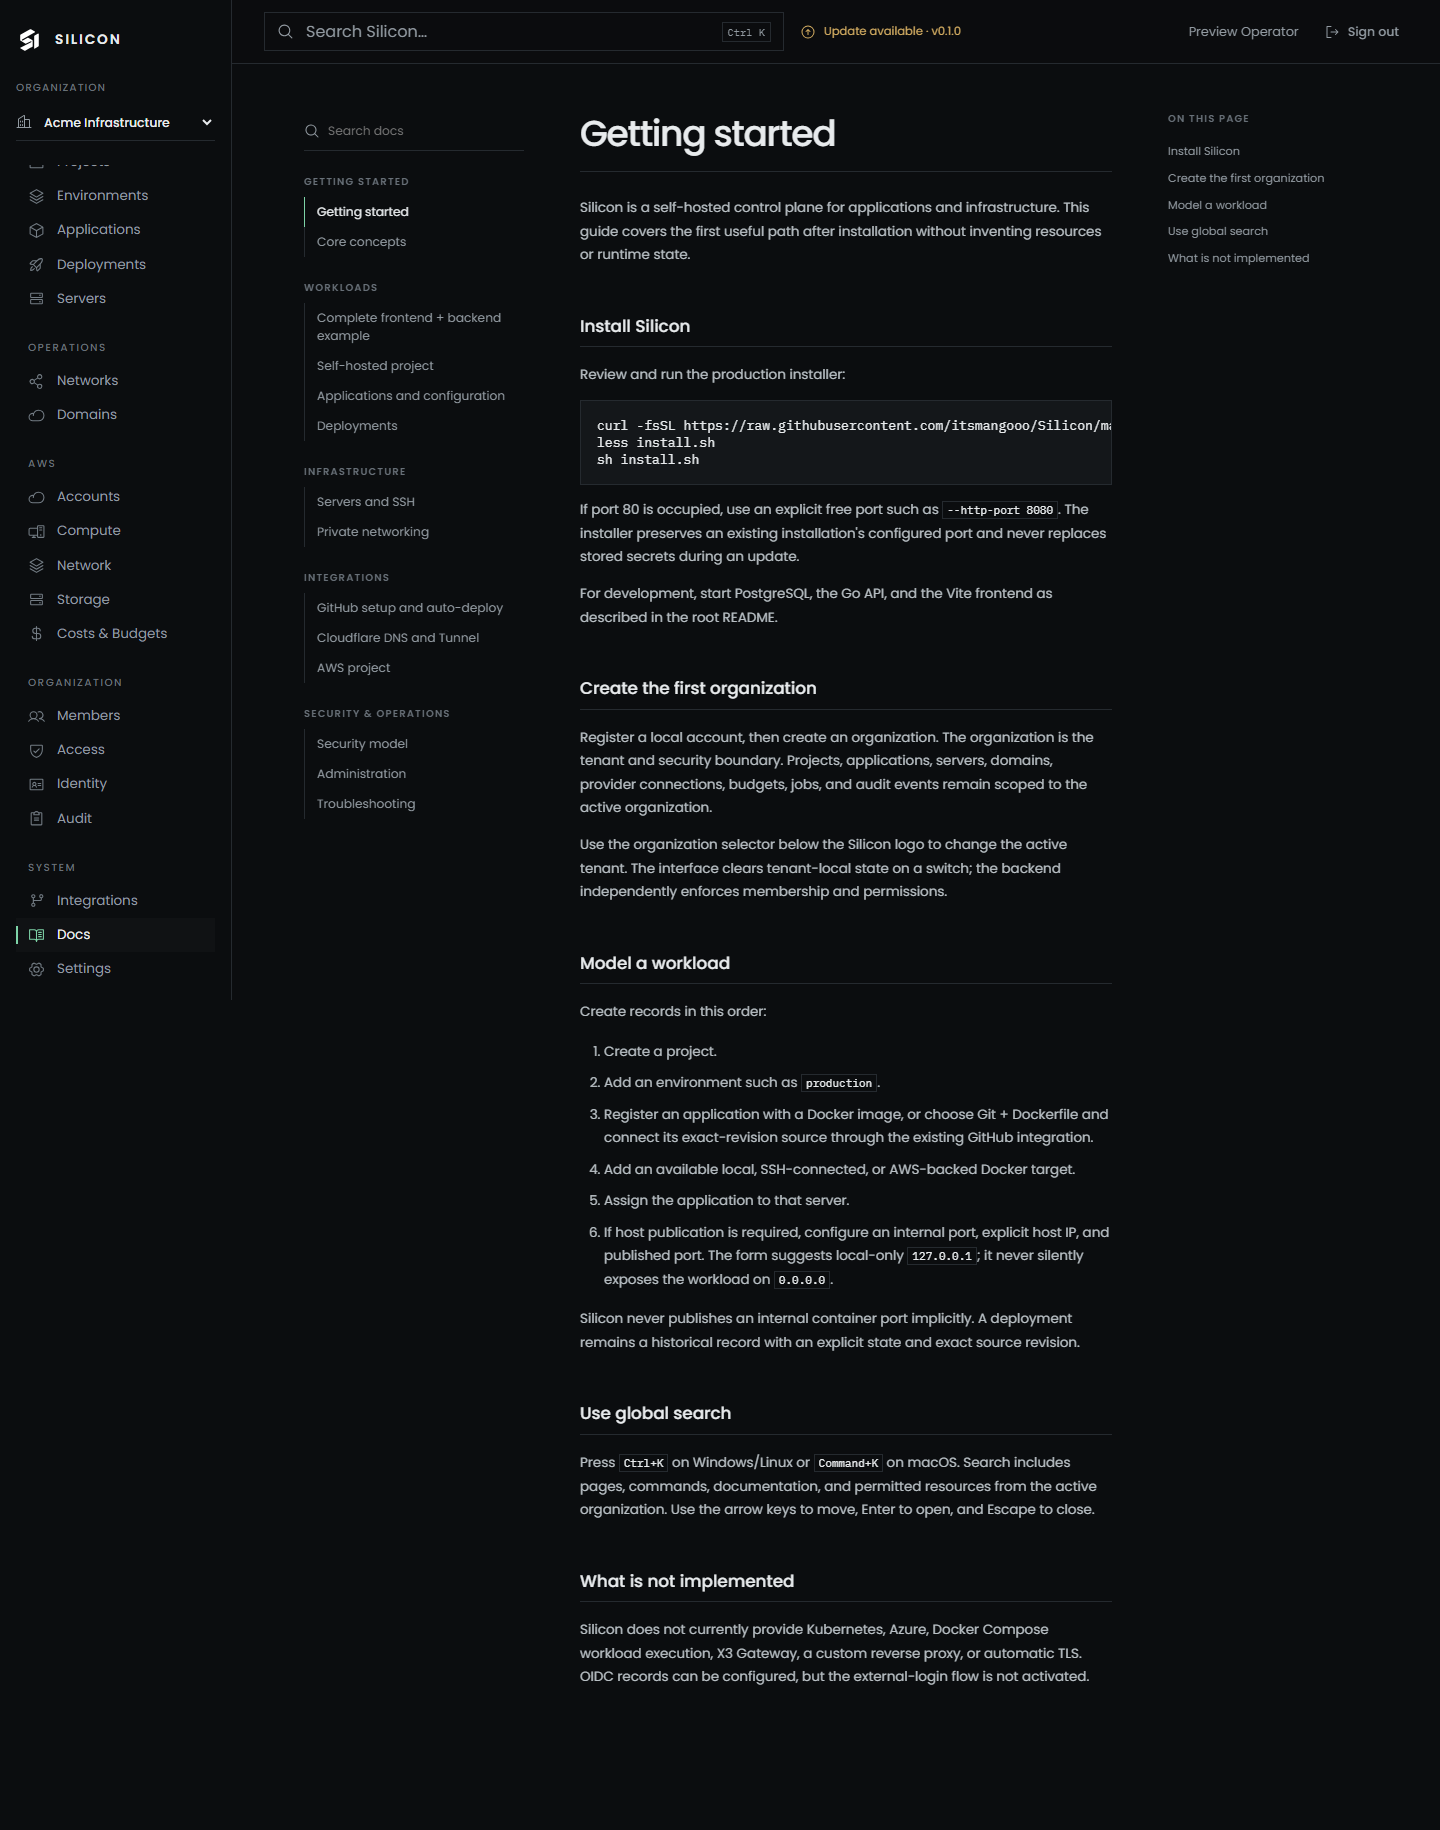
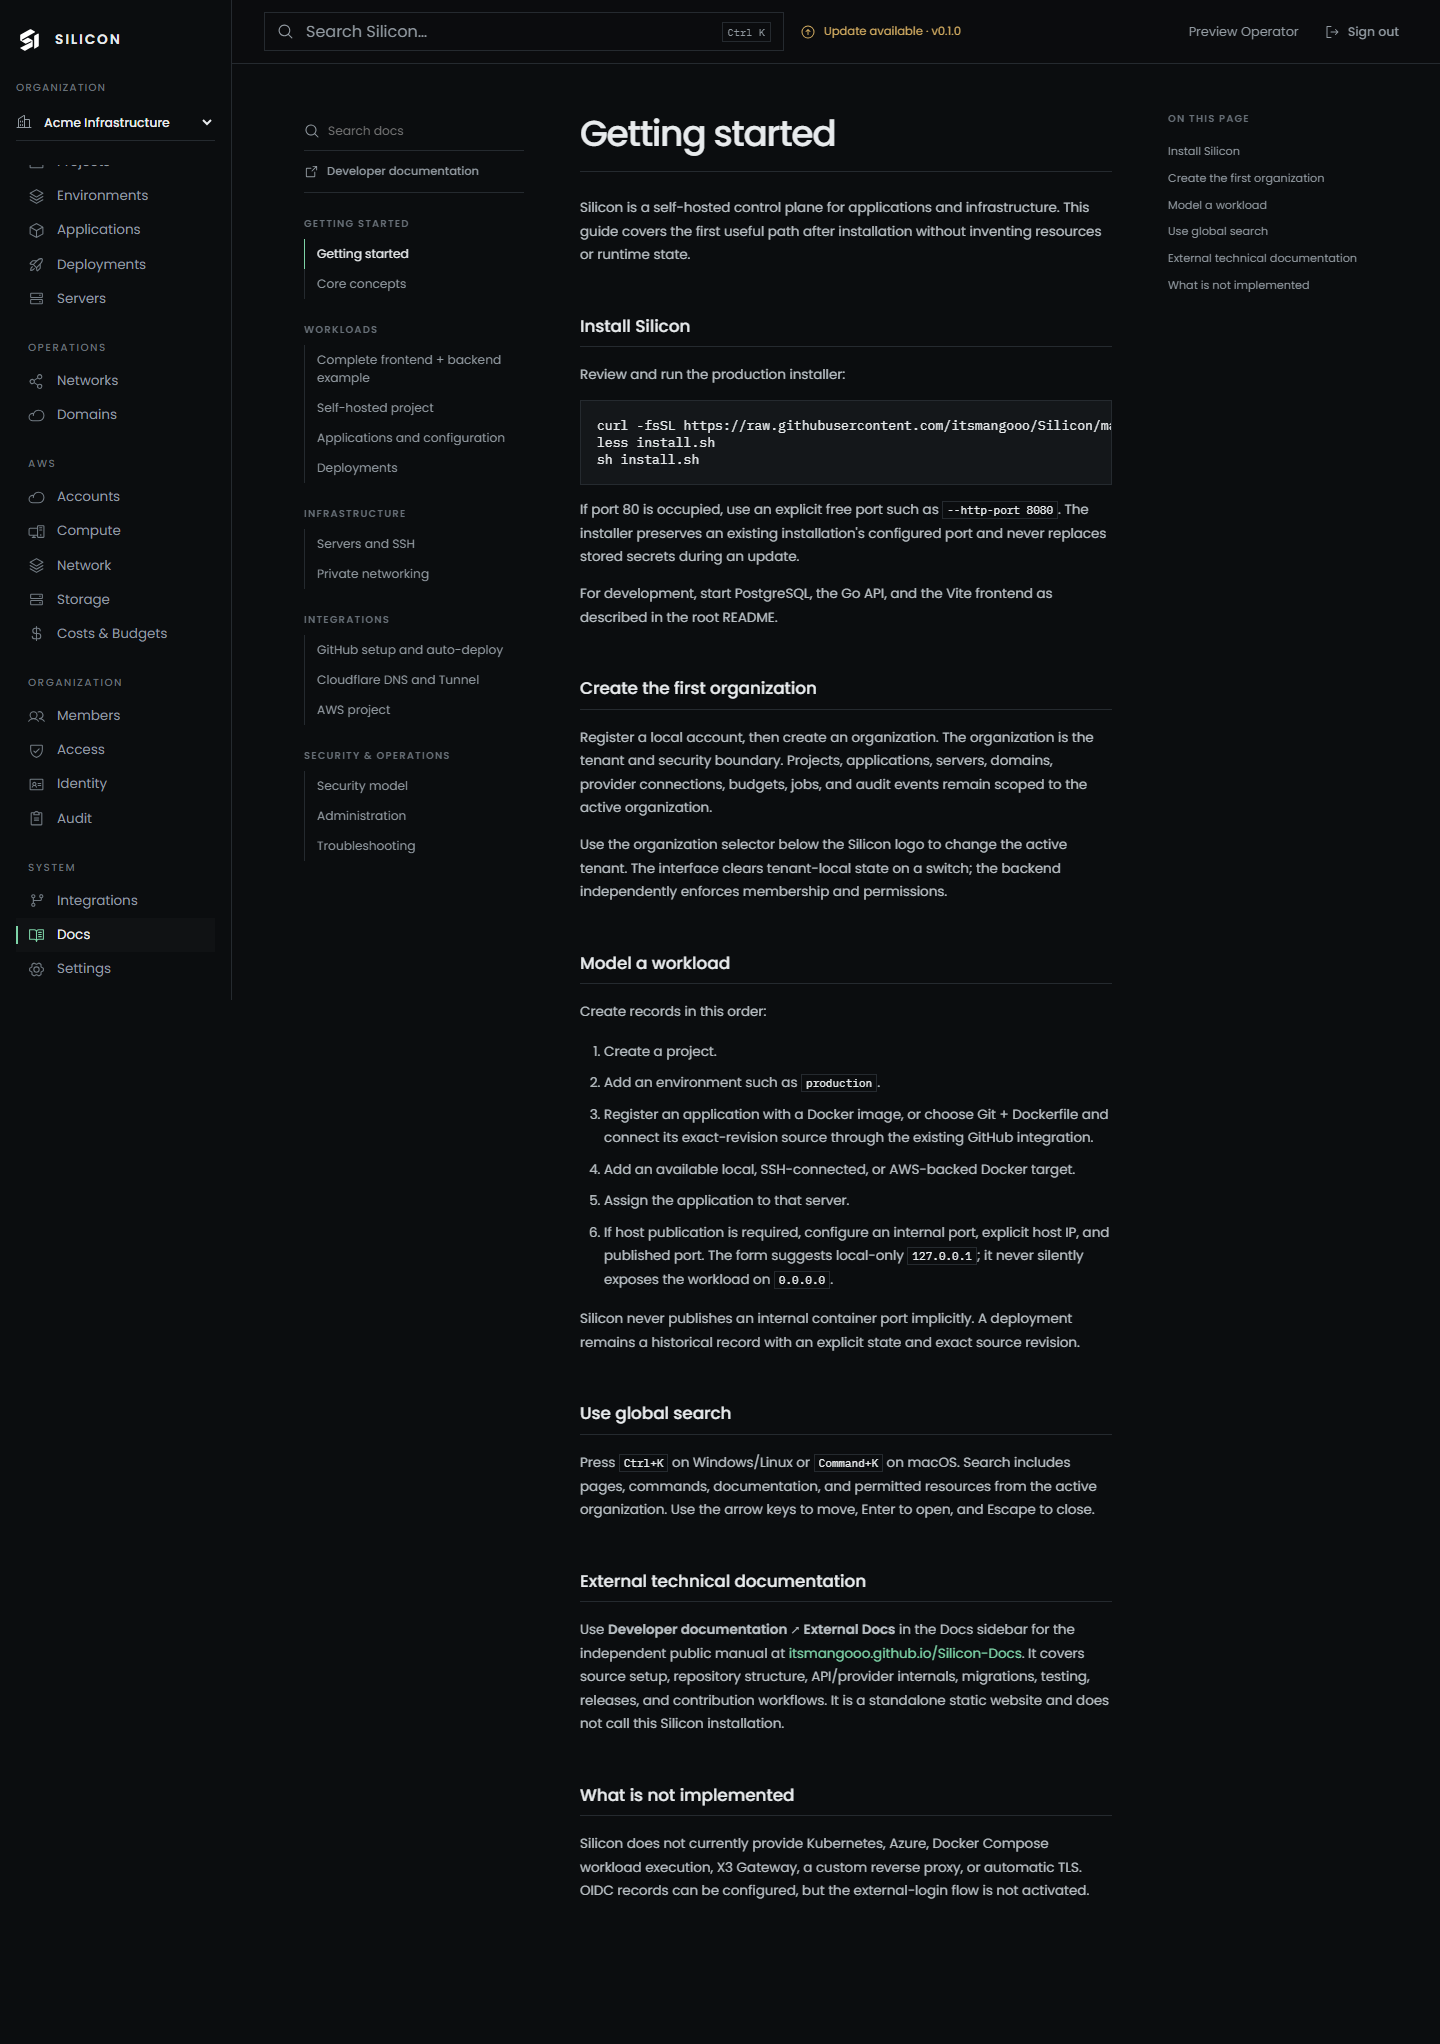
docs: link standalone public documentation

diff --git a/frontend/src/docs/catalog.js b/frontend/src/docs/catalog.js
@@ -7,7 +7,7 @@ export const docCategories = [
 ]
 
 export const docCatalog = [
-  { title: 'Getting started', slug: 'getting-started', category: 'overview', summary: 'Start with installation, organizations, workload records, and global search.', keywords: ['install', 'first organization', 'quick start'], sections: ['Install Silicon', 'Create the first organization', 'Model a workload', 'Use global search'] },
+  { title: 'Getting started', slug: 'getting-started', category: 'overview', summary: 'Start with installation, organizations, workload records, and global search.', keywords: ['install', 'first organization', 'quick start', 'developer documentation'], sections: ['Install Silicon', 'Create the first organization', 'Model a workload', 'Use global search', 'External technical documentation'] },
   { title: 'Core concepts', slug: 'core-concepts', category: 'overview', summary: 'Understand tenancy, workload hierarchy, providers, and honest state.', keywords: ['architecture', 'tenant', 'provider'], sections: ['Organization boundary', 'Workload hierarchy', 'Servers and providers'] },
   { title: 'Complete frontend + backend example', slug: 'frontend-backend-example', category: 'workloads', summary: 'Build a production frontend and backend from an empty tenant through deployment and routing.', keywords: ['example app', 'frontend backend', 'production walkthrough'], sections: ['Target result', 'Create the control-plane hierarchy', 'Deploy backend, then frontend', 'Verify the complete request path'] },
   { title: 'Self-hosted project', slug: 'self-hosted-project', category: 'workloads', summary: 'Deploy a frontend and backend to an SSH-connected Linux Docker server from start to finish.', keywords: ['self hosted', 'ssh deployment', 'linux server', 'hosting guide'], sections: ['Prepare the Linux server', 'Add the server over SSH', 'Deploy an exact revision', 'Configure frontend to backend connectivity'] },

diff --git a/frontend/src/pages/DocsPage.jsx b/frontend/src/pages/DocsPage.jsx
@@ -1,5 +1,5 @@
 import { useMemo, useState } from 'react'
-import { BookOpenTextIcon, CaretDownIcon, MagnifyingGlassIcon } from '@phosphor-icons/react'
+import { ArrowSquareOutIcon, BookOpenTextIcon, CaretDownIcon, MagnifyingGlassIcon } from '@phosphor-icons/react'
 import ReactMarkdown from 'react-markdown'
 import rehypeSlug from 'rehype-slug'
 import remarkGfm from 'remark-gfm'
@@ -60,6 +60,7 @@ export function DocsArticlePage() {
     </header>
     <aside className={`docs-sidebar${navOpen ? ' open' : ''}`}>
       <label className="docs-search"><MagnifyingGlassIcon size={16} aria-hidden="true" /><span className="sr-only">Search documentation</span><input value={query} onChange={(event) => setQuery(event.target.value)} placeholder="Search docs" /></label>
+      <a className="docs-external-link" href="https://itsmangooo.github.io/Silicon-Docs/" target="_blank" rel="noreferrer"><ArrowSquareOutIcon size={15} aria-hidden="true" /><span>Developer documentation</span></a>
       {query.trim() ? <div className="docs-search-results" aria-label="Documentation search results">{results.length ? results.map((item) => <Link key={item.route} to={item.route} onClick={() => { setNavOpen(false); setQuery('') }}><strong>{item.title}</strong><small>{item.summary}</small></Link>) : <p>No documentation found.</p>}</div> : <DocsNavigation onNavigate={() => setNavOpen(false)} />}
     </aside>
     <article className="docs-article">

diff --git a/frontend/src/styles.css b/frontend/src/styles.css
@@ -107,6 +107,8 @@ h3 { font-size: .9rem; font-weight: 500; }
 .docs-sidebar, .docs-toc { position: sticky; top: 96px; max-height: calc(100vh - 120px); overflow-y: auto; }
 .docs-search { display: grid; grid-template-columns: auto minmax(0, 1fr); align-items: center; gap: var(--space-2); border-bottom: 1px solid var(--border); color: var(--text-muted); }
 .docs-search input { min-height: 38px; border: 0; padding: var(--space-2) 0; font-size: .76rem; }
+.docs-external-link { display: flex; align-items: center; gap: var(--space-2); border-bottom: 1px solid var(--border); padding: var(--space-3) 0; color: var(--text-muted); font-size: .72rem; font-weight: 500; }
+.docs-external-link:hover { color: var(--accent); text-decoration: none; }
 .docs-nav-group { margin-top: var(--space-5); }
 .docs-nav-label { margin-bottom: var(--space-2); color: #687078; font-size: .62rem; font-weight: 600; letter-spacing: .12em; }
 .docs-navigation a { display: block; border-left: 1px solid var(--border); padding: 6px var(--space-3); color: var(--text-muted); font-size: .76rem; }

diff --git a/frontend/src/pages/DocsPage.test.jsx b/frontend/src/pages/DocsPage.test.jsx
@@ -15,6 +15,7 @@ describe('in-panel documentation', () => {
     expect(screen.getByRole('heading', { level: 1, name: 'Servers and SSH' })).toBeInTheDocument()
     expect(screen.getByRole('heading', { level: 2, name: 'Trust the host identity' })).toHaveAttribute('id', 'trust-the-host-identity')
     expect(screen.getByRole('link', { name: 'Trust the host identity' })).toHaveAttribute('href', '#trust-the-host-identity')
+    expect(screen.getByRole('link', { name: 'Developer documentation' })).toHaveAttribute('href', 'https://itsmangooo.github.io/Silicon-Docs/')
   })
 
   it('renders procedural guide images and converts relative Markdown guides to panel routes', () => {

diff --git a/README.md b/README.md
@@ -4,6 +4,8 @@ Silicon is a self-hosted infrastructure and application control plane. Its found
 
 Silicon occupies the same broad problem space as infrastructure deployment products, but its architecture and product model are its own. It remains a modular monolith. AWS support is deliberately focused on EC2-hosted Silicon workloads; Silicon does **not** include a custom reverse proxy, automatic TLS, Azure, Kubernetes, or an AWS Console clone.
 
+The independent [Silicon public documentation](https://itsmangooo.github.io/Silicon-Docs/) is the main operator and contributor manual. Its source lives in the separate [Silicon-Docs project](https://github.com/itsmangooo/Silicon-Docs); it does not depend on the panel, backend, PostgreSQL, or a running installation. Installation-local procedures remain available in the authenticated in-panel Docs area.
+
 ## Interface previews
 
 These previews were captured from the running application at a consistent desktop viewport. Authenticated views use temporary, isolated preview fixtures so the implemented data-backed states are visible; Silicon does not ship with seeded users, organizations, or workload records. The current previews include local, SSH, and AWS-backed targets plus provider-independent Cloudflare routing.
@@ -172,53 +174,7 @@ That flow verifies a fresh migration, registration, sessions, organization creat
 
 ## API
 
-The REST API is rooted at `/api/v1`. Its OpenAPI contract lives at [`backend/openapi/openapi.yaml`](backend/openapi/openapi.yaml). Important resource groups are:
-
-- `/auth/register`, `/auth/login`, `/auth/logout`, `/auth/session`
-- `/system/updates`, `/system/updates/check`
-- `/organizations`
-- `/organizations/{organizationID}/projects`
-- `/organizations/{organizationID}/search`
-- `/organizations/{organizationID}/projects/{projectID}/environments`
-- `/organizations/{organizationID}/projects/{projectID}/environment-variables`
-- `/organizations/{organizationID}/projects/{projectID}/secrets`
-- `/organizations/{organizationID}/environments/{environmentID}`
-- `/organizations/{organizationID}/environments/{environmentID}/environment-variables`
-- `/organizations/{organizationID}/environments/{environmentID}/secrets`
-- `/organizations/{organizationID}/environments/{environmentID}/applications`
-- `/organizations/{organizationID}/applications/{applicationID}`
-- `/organizations/{organizationID}/applications/{applicationID}/deployments`
-- `/organizations/{organizationID}/deployments/{deploymentID}`
-- `/organizations/{organizationID}/applications/{applicationID}/environment-variables`
-- `/organizations/{organizationID}/applications/{applicationID}/secrets`
-- `/organizations/{organizationID}/applications/{applicationID}/configuration`
-- `/organizations/{organizationID}/applications/{applicationID}/runtime`
-- `/organizations/{organizationID}/applications/{applicationID}/runtime/logs`
-- `/organizations/{organizationID}/servers`
-- `/organizations/{organizationID}/servers/{serverID}/connection`
-- `/organizations/{organizationID}/servers/{serverID}/check`
-- `/organizations/{organizationID}/servers/{serverID}/trust-host-key`
-- `/organizations/{organizationID}/applications/{applicationID}/server`
-- `/organizations/{organizationID}/members`
-- `/organizations/{organizationID}/identity-providers`
-- `/organizations/{organizationID}/audit-events`
-- `/organizations/{organizationID}/integrations/github`
-- `/organizations/{organizationID}/integrations/cloudflare`
-- `/organizations/{organizationID}/domains`
-- `/organizations/{organizationID}/domains/{domainID}/sync`
-- `/organizations/{organizationID}/integrations/cloudflare/tunnels`
-- `/organizations/{organizationID}/integrations/cloudflare/tunnels/{tunnelID}/install`
-- `/organizations/{organizationID}/integrations/cloudflare/tunnels/{tunnelID}/routes`
-- `/organizations/{organizationID}/aws/accounts`
-- `/organizations/{organizationID}/aws/accounts/{accountID}/inventory`
-- `/organizations/{organizationID}/aws/accounts/{accountID}/machines`
-- `/organizations/{organizationID}/aws/accounts/{accountID}/instances/{instanceID}/actions/{action}`
-- `/organizations/{organizationID}/aws/costs`
-- `/organizations/{organizationID}/aws/operations`
-- `/organizations/{organizationID}/budgets`
-- `/webhooks/github`
-
-Authentication uses an opaque server-side session in an HTTP-only cookie. Unsafe requests also require a CSRF header. Authorization is always enforced by the backend against the organization in the route.
+The REST API is rooted at `/api/v1`. Its maintained contract lives at [`backend/openapi/openapi.yaml`](backend/openapi/openapi.yaml), with architecture and endpoint-extension guidance in the [external API documentation](https://itsmangooo.github.io/Silicon-Docs/developers/api). Authentication uses an opaque server-side session in an HTTP-only cookie. Unsafe requests also require a CSRF header, and organization authorization is enforced by the backend.
 
 ## Current boundaries
 

diff --git a/docs/guide/getting-started.md b/docs/guide/getting-started.md
@@ -39,6 +39,10 @@ Silicon never publishes an internal container port implicitly. A deployment rema
 
 Press `Ctrl+K` on Windows/Linux or `Command+K` on macOS. Search includes pages, commands, documentation, and permitted resources from the active organization. Use the arrow keys to move, Enter to open, and Escape to close.
 
+## External technical documentation
+
+Use **Developer documentation ↗ External Docs** in the Docs sidebar for the independent public manual at [itsmangooo.github.io/Silicon-Docs](https://itsmangooo.github.io/Silicon-Docs/). It covers source setup, repository structure, API/provider internals, migrations, testing, releases, and contribution workflows. It is a standalone static website and does not call this Silicon installation.
+
 ## What is not implemented
 
 Silicon does not currently provide Kubernetes, Azure, Docker Compose workload execution, X3 Gateway, a custom reverse proxy, or automatic TLS. OIDC records can be configured, but the external-login flow is not activated.

diff --git a/docs/guide/README.md b/docs/guide/README.md
@@ -2,6 +2,8 @@
 
 These Markdown articles are the source for Silicon's in-panel documentation and remain readable directly on GitHub.
 
+The in-panel guide is installation-focused: it explains how to operate the Silicon instance currently open in the browser. The independent [Silicon public documentation](https://itsmangooo.github.io/Silicon-Docs/) contains the broader operator, architecture, source-code, security, and contribution manual. The public site is a standalone static Docusaurus build and is not loaded from the panel or backend.
+
 ## Getting started
 
 - [Getting started](getting-started.md)
@@ -17,6 +19,7 @@ These Markdown articles are the source for Silicon's in-panel documentation and 
 ## Infrastructure and integrations
 
 - [Servers and SSH](servers.md)
+- [Private networking](private-networking.md)
 - [GitHub setup and auto-deploy](github.md)
 - [Cloudflare DNS and Tunnel](cloudflare.md)
 - [AWS project](aws.md)
